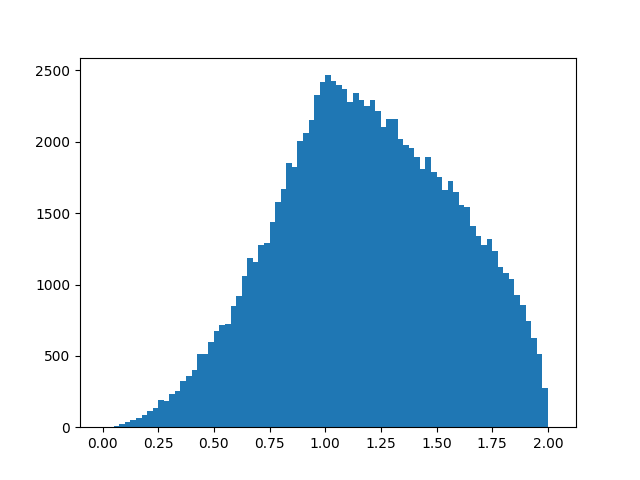
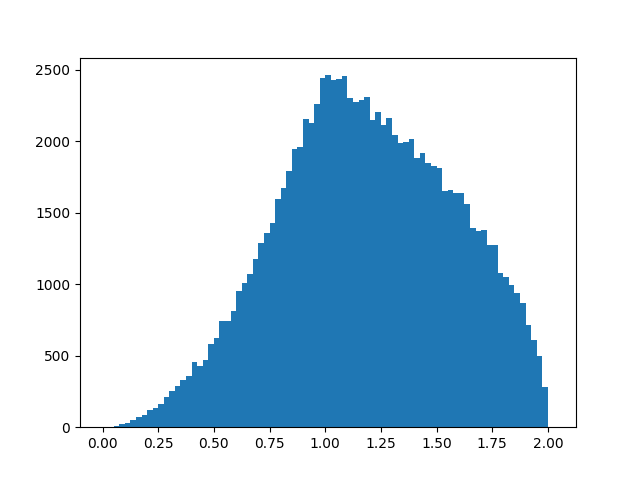
Problem 2 done. Fun random walk with MC.

diff --git a/Algorithms/HW4/hw4.py b/Algorithms/HW4/hw4.py
@@ -7,22 +7,6 @@ from sympy.functions.elementary.piecewise import Piecewise
 import random
 import numpy as np
 import matplotlib.pyplot as plt
-
-x = symbols('x')
-f = Piecewise((x**2, ((x >= 0) & (x <= 1))), (sqrt(2-x), ((x>1) & (x<=2))), (0, True))
-f = lambdify([x], f)
-nsamples = int(1e5)
-samples = np.zeros((nsamples,))
-for i in range(0,nsamples):
-    success = False
-    while (not success):
-        u1 = random.uniform(0,2)
-        u2 = random.uniform(0,1)
-        ythresh = f(u1)
-        if u2 <= ythresh:
-            samples[i] = u1
-            success = True
-
 # This is actually a handy little tool I made, keeping it!
 def makeBins(binSize, start, end):
     bins = [start]
@@ -31,6 +15,102 @@ def makeBins(binSize, start, end):
         bins.append(start)
     return bins
 
-bins = makeBins(0.025, 0, 2.0)
-plt.hist(samples, bins)
-plt.savefig('Problem_23_2.png')
+def problem1():
+    x = symbols('x')
+    f = Piecewise((x**2, ((x >= 0) & (x <= 1))), (sqrt(2-x), ((x>1) & (x<=2))), (0, True))
+    f = lambdify([x], f)
+    nsamples = int(1e5)
+    samples = np.zeros((nsamples,))
+    for i in range(0,nsamples):
+        success = False
+        while (not success):
+            u1 = random.uniform(0,2)
+            u2 = random.uniform(0,1)
+            ythresh = f(u1)
+            if u2 <= ythresh:
+                samples[i] = u1
+                success = True
+
+    bins = makeBins(0.025, 0, 2.0)
+    plt.hist(samples, bins)
+    plt.savefig('Problem_23_2.png')
+
+#problem1()
+
+## Problem 24.1: A mouse's random walk on a graph
+## Hard part here will be finding a sensible data structure for the graph
+## Solving the probability question via MonteCarlo methods should be 
+## straightforward once we've established the algorithm for the walk. 
+
+def problem2():
+    ## See Stepanov's notes for the graph
+    ## Two choices for a general graph: adjacency matrix or adjacency list
+    ## Both have to be built manually :/
+    adjacencyMatrix = np.array([[0, 0, 0, 0, 1, 0, 0, 0, 0, 0, 0, 0, 0, 0, 0, 0],
+                                [0, 0, 1, 0, 0, 0, 0, 0, 0, 0, 0, 0, 0, 0, 0, 0],
+                                [0, 1, 0, 1, 0, 0, 1, 0, 0, 0, 0, 0, 0, 0, 0, 0],
+                                [0, 0, 1, 0, 0, 0, 0, 1, 0, 0, 0, 0, 0, 0, 0, 0],
+                                [1, 0, 0, 0, 0, 1, 0, 0, 0, 0, 0, 0, 0, 0, 0, 0],
+                                [0, 0, 0, 0, 1, 0, 1, 0, 0, 1, 0, 0, 0, 0, 0, 0],
+                                [0, 0, 1, 0, 0, 1, 0, 0, 0, 0, 0, 0, 0, 0, 0, 0],
+                                [0, 0, 0, 1, 0, 0, 0, 0, 0, 0, 0, 1, 0, 0, 0, 0],
+                                [0, 0, 0, 0, 0, 0, 0, 0, 0, 0, 0, 0, 1, 0, 0, 0],
+                                [0, 0, 0, 0, 0, 1, 0, 0, 0, 0, 0, 0, 0, 1, 0, 0],
+                                [0, 0, 0, 0, 0, 0, 0, 0, 0, 0, 0, 1, 0, 0, 0, 0],
+                                [0, 0, 0, 0, 0, 0, 0, 1, 0, 0, 1, 0, 0, 0, 0, 1],
+                                [0, 0, 0, 0, 0, 0, 0, 0, 1, 0, 0, 0, 0, 1, 0, 0],
+                                [0, 0, 0, 0, 0, 0, 0, 0, 0, 1, 0, 0, 1, 0, 1, 0],
+                                [0, 0, 0, 0, 0, 0, 0, 0, 0, 0, 0, 0, 0, 1, 0, 1],
+                                [0, 0, 0, 0, 0, 0, 0, 0, 0, 0, 0, 1, 0, 0, 1, 0]])
+    ## Walk: recursion would be ideal here, but we're in Python XD
+    ## So, a while loop it is. While (not terminated), find node and go. Check termination
+    ## Cheese? 1. Cat? 0. 
+    def findAdjacents(node, adjMat):
+        adjList = []
+        for i,el in enumerate(adjMat[node,:]):
+            if el:
+                adjList.append(i)
+        return adjList
+
+    def chooseMove(adjacent):
+        n = len(adjacent)
+        u = int(random.uniform(0,n))
+        return adjacent[u]
+
+    def randomWalkOnGraph(start, adjMat):
+        terminated = False
+        special = [0, 1] # Cheese is at node 0, cat at node 1
+        retval = 0 # 0 means death, 1 means cheese, success, and a happy life
+        current = start
+        while (not terminated):
+            adjacents = findAdjacents(current, adjMat)
+            nextNode = chooseMove(adjacents)
+            if (nextNode in special):
+                terminated = True
+                if nextNode == 0:
+                    return 1
+                else:
+                    return 0
+            current = nextNode
+
+    ## MonteCarlo simulation: for (large N) runs, store results. Sum, average, boom probability. 
+    outputs = []
+    nruns = int(1e5)
+    for i in range(0, nruns):
+        outputs.append(randomWalkOnGraph(0, adjacencyMatrix))
+
+    happinessChance = sum(outputs)/float(nruns)
+    print(f"Mouse survives with {happinessChance} probability.")
+
+#problem2()
+
+## Problem 24.5 Consider a diffusing particle inside the square 0<x,y<1. The
+## particle starts at x(0) =1/3,y(0) =1/6. Consider the moment and position when and
+## where the particle hits the boundary of thesquare for the first time. For each
+## side of the square find the probability that it is the one being hit.
+
+## Problem 25.1: Using the Metropolis algorithm, simulate a Markov chain with
+## P(x) = exp(-x), x>=0 density and transition function T(x'|x) =
+## exp(-(x'-x)^2/2s^2)/sqrt(2\pi)s (with appropriate acceptance probability
+## A(x'|x)). Find s that minimizes K_xx(1) = E(x_m-1)(x_{m-1}-1), where x_m is the
+## state of the Markov chain at time m.
